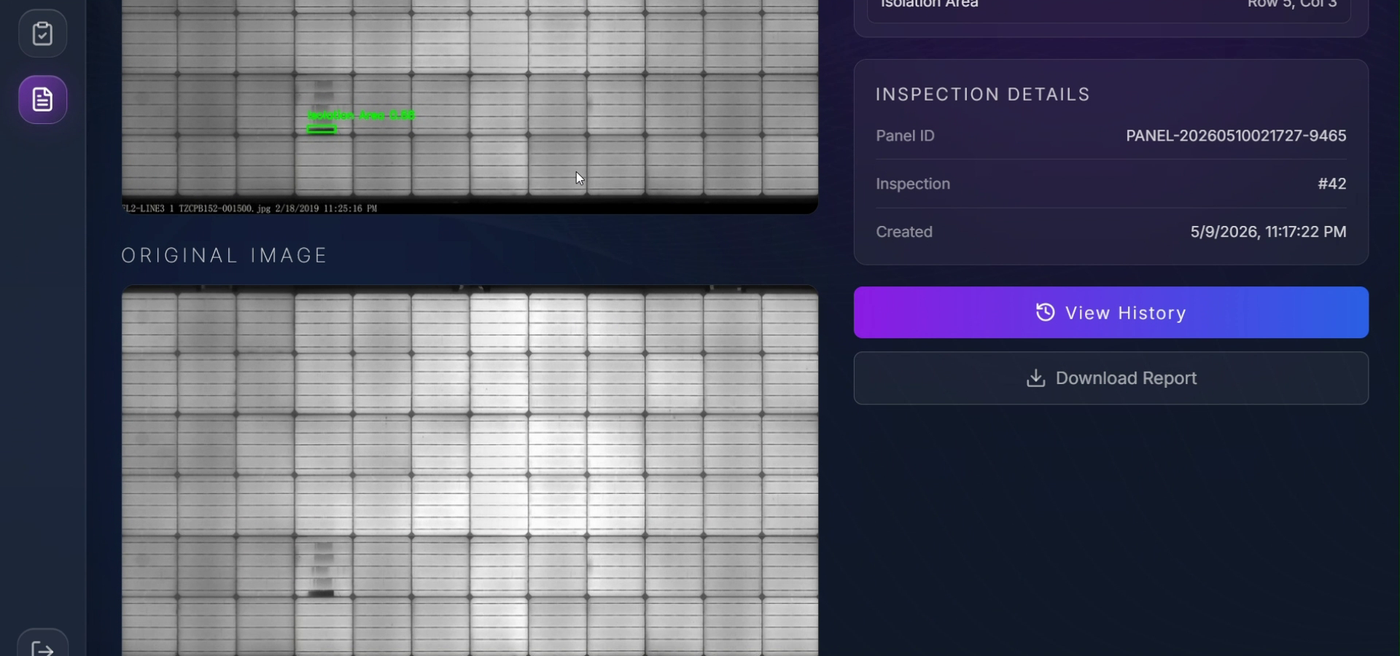
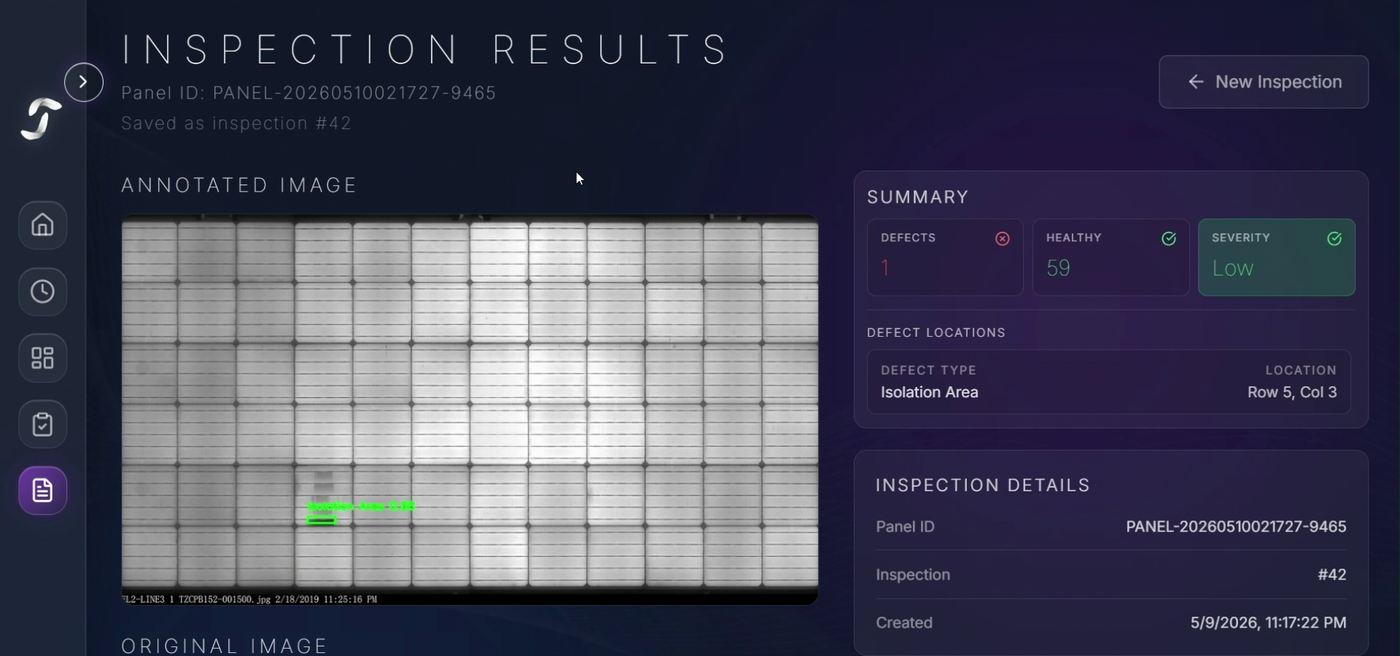
updated 3

diff --git a/README.md b/README.md
@@ -107,6 +107,7 @@ Per-class mAP@50 of RT-DETR-X on the private validation set: Micro-crack **83.2 
 - The validation sets are small (private: 29 images / 311 annotated defects). Single runs, no confidence intervals.
 - On the private data, EfficientNet-B0 vs ResNet50 differs by **one validation crop** (272 vs 271 of 311), so the two are statistically indistinguishable; EfficientNet-B0 was kept for its efficiency.
 - Detection mAP@50 of about 49 % is a baseline: micro-cracks are found reliably, scratches and black spots much less so. Better and larger data is the main lever.
+- Public and private results come from different datasets (different classes, image quality and annotation style), so compare models *within* a dataset rather than across them.
 - Images come from controlled indoor EL setups; outdoor / drone imagery is future work.
 
 ## Web application
@@ -115,13 +116,17 @@ React + Vite + Tailwind front end, FastAPI back end, PostgreSQL storage, PDF rep
 
 ### Inspector
 
-| Home | Upload EL image | Results |
+| Home | Upload EL image | Dashboard |
 |:-:|:-:|:-:|
-| <img src="docs/assets/ui-inspector-home.png" width="320"> | <img src="docs/assets/ui-inspector-upload.png" width="320"> | <img src="docs/assets/ui-inspector-results.png" width="320"> |
+| <img src="docs/assets/ui-inspector-home.png" width="320"> | <img src="docs/assets/ui-inspector-upload.png" width="320"> | <img src="docs/assets/ui-inspector-dashboard.png" width="320"> |
 
-| History | Dashboard | PDF report |
-|:-:|:-:|:-:|
-| <img src="docs/assets/ui-inspector-history.png" width="320"> | <img src="docs/assets/ui-inspector-dashboard.png" width="320"> | <img src="docs/assets/ui-pdf-report.png" width="320"> |
+| Results: annotated image and summary | Results: original image and details |
+|:-:|:-:|
+| <img src="docs/assets/ui-inspector-results.png" width="480"> | <img src="docs/assets/ui-inspector-results-details.png" width="480"> |
+
+| History | PDF report |
+|:-:|:-:|
+| <img src="docs/assets/ui-inspector-history.png" width="480"> | <img src="docs/assets/ui-pdf-report.png" width="300"> |
 
 ### Admin
 
@@ -217,6 +222,7 @@ Supervisor: **Dr. Dhiaa A. Musleh** — College of Computer Science and Informat
 - **Desert Technologies** for the collaboration and for providing the industrial EL dataset for academic use.
 - **Dr. Dhiaa A. Musleh** and **Imam Abdulrahman Bin Faisal University** for supervision and support.
 - Public dataset: [*EL-Images*](https://universe.roboflow.com/venkata-prasanth/el-images-p2ove) by Venkata Prasanth, Roboflow Universe, CC BY 4.0.
+  We also trained and evaluated the pipeline on it as a public benchmark. It uses a different 3-class taxonomy (Branch crack, Isolation area, Micro-crack) and different imaging conditions from the industrial data, so its results are reported separately and are not directly comparable to the private-data results.
 
 ## License
 
